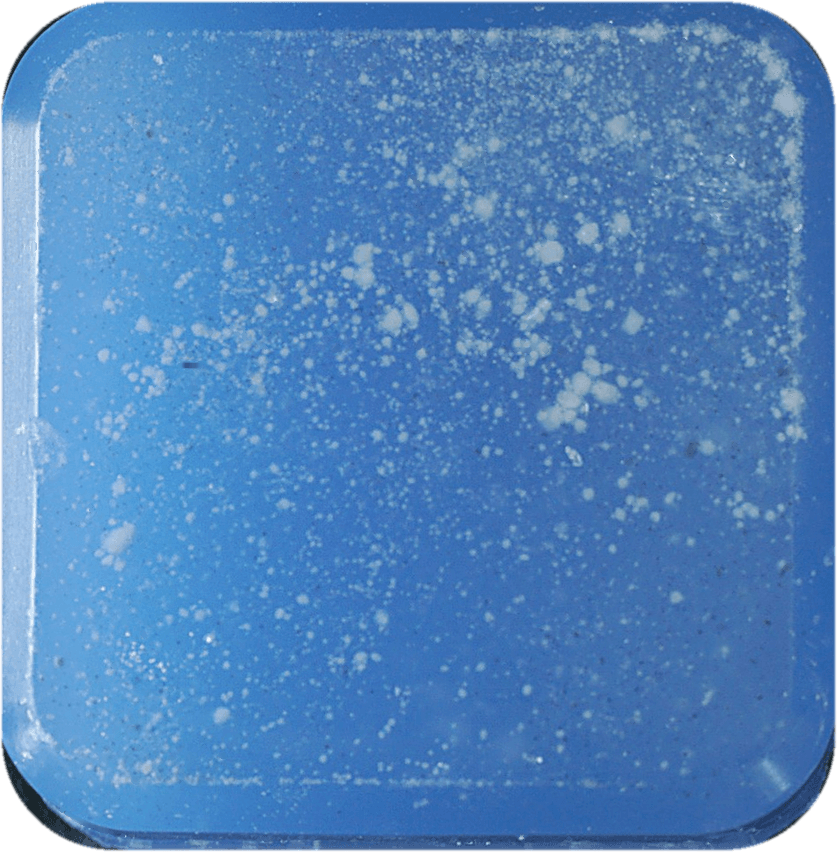
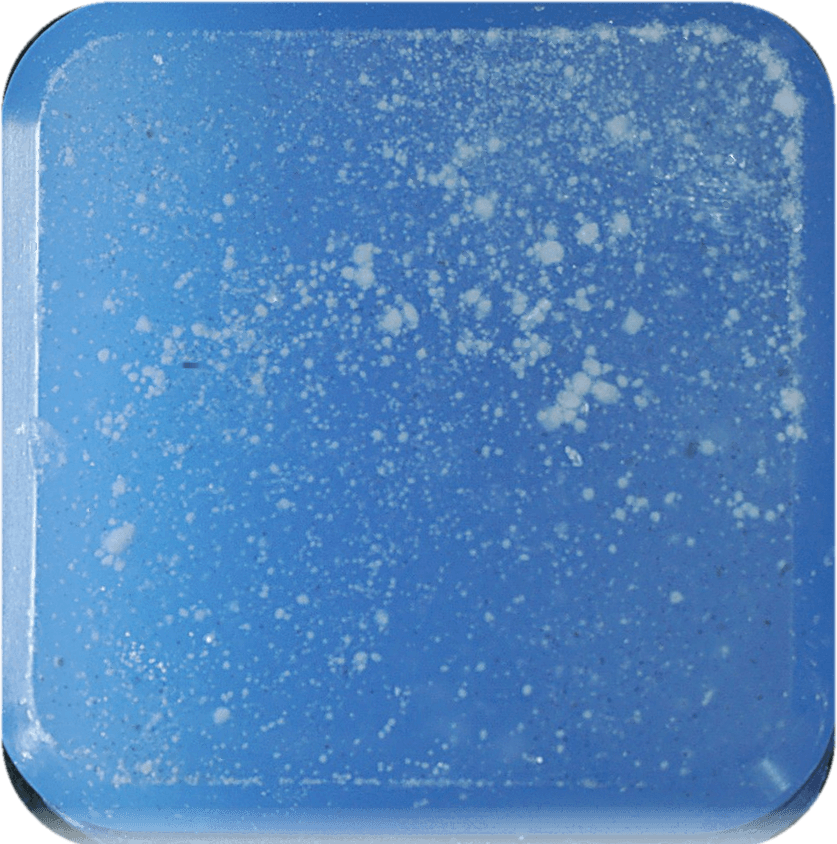
fix(mobile-hero): v4 — Komposition, Block, Diagonale, Typo geschärft
Zweite Politur-Runde nach Lucas Detailkritik.

- Wachsblock: deutlich weiter runter gezogen (~47 % Ueberstand statt ~24 %),
  groesser, satteres Blau (filter saturate/brightness/contrast), zweilagiger
  Kontaktschatten weiter nach unten versetzt -> schwebt klar davor, der
  Weissraum darunter ist seine Buehne statt totes Loch. Freisteller-Unterkante
  enger beschnitten + blau gehoben (wax-cutout-soft neu generiert).
- Kein toter Abstand mehr zwischen Block und Text: hero-content-m auf
  justify-start, padding-top = Blockueberstand + Puffer (svh-basiert).
- Diagonale: alle Panel-Ecken rund (rounded-[22px] statt rounded-t), Winkel
  deutlicher (rechts ~21 % hoch) und links/rechts vom Block sichtbar.
- Schriftzug "Waxcelerate": Libre Franklin 700 -> 800, letter-spacing -0.022em
  -> liest als Wortmarke, nicht als Wort. Kopf-Scrim staerker.
- Headline: line-height 1.0 -> 1.08 (Zeilen klebten), Groesse leicht hoch.
- Eyebrow: neuer i18n-Key hero.categoryLine ("Heisswachs fuer Fahrradketten")
  statt subtitle -> kein doppeltes "Waxcelerate" direkt unter dem Schriftzug.
- Value-Zeile: --txm -> --tx2 (dunkler/praesenter als die Eyebrow, sie traegt
  die Botschaft). Rhythmus: Eyebrow+Headline enger, Zaesur vor dem CTA.

Ein-Screen verifiziert 375x812 / 375x667; Noir (Diagonale nahtlos, Hierarchie
haelt); Desktop unveraendert; tsc + vite + Prerender gruen.

Bleibt Asset-limitiert: die fotografierte Blockunterkante ist dunkel, auf Weiss
[…]

diff --git a/src/sections/hero-light.tsx b/src/sections/hero-light.tsx
@@ -376,22 +376,26 @@ export function Hero() {
               oberen Ecken scharf). Untere Ecken der Bildflaeche selbst spitz —
               sie liegen unter dem Dreieck bzw. Block, also unsichtbar. */}
           <div className="hero-panel-m relative shrink-0">
-            <div className="absolute inset-0 rounded-t-[20px] overflow-hidden">
+            {/* Alle vier Ecken rund; die unteren liegen unter dem
+                Seitenfarben-Dreieck (.hero-panel-cut) und sind daher unsichtbar
+                — aber falls der Zuschnitt mal nicht pixelgenau deckt, gibt es
+                keine harte Ecke. */}
+            <div className="absolute inset-0 rounded-[22px] overflow-hidden">
               <picture>
                 <source srcSet={MOBILE_HERO_BG} type="image/webp" />
                 <img
                   src={MOBILE_HERO_BG_FALLBACK}
                   alt={de ? 'Fahrradketten auf Schiefer' : 'Bicycle chains on slate'}
                   className="absolute inset-0 w-full h-full object-cover"
-                  style={{ objectPosition: '48% 40%', filter: 'brightness(0.88) saturate(0.95)' }}
+                  style={{ objectPosition: '40% 58%', filter: 'brightness(0.86) saturate(0.92)' }}
                   fetchPriority="high"
                 />
               </picture>
               <div className="hero-grain absolute inset-0 pointer-events-none" />
               {/* Kopf-Scrim — Kontrast fuer den zentralen Schriftzug */}
               <div
-                className="absolute inset-x-0 top-0 h-1/2 pointer-events-none"
-                style={{ background: 'linear-gradient(to bottom, rgba(var(--scrim-rgb),0.42) 0%, rgba(var(--scrim-rgb),0.10) 55%, transparent 100%)' }}
+                className="absolute inset-x-0 top-0 h-[58%] pointer-events-none"
+                style={{ background: 'linear-gradient(to bottom, rgba(var(--scrim-rgb),0.52) 0%, rgba(var(--scrim-rgb),0.14) 55%, transparent 100%)' }}
               />
             </div>
             {/* Diagonale in Seitenfarbe — schneidet die Bildunterkante schraeg
@@ -403,13 +407,13 @@ export function Hero() {
 
             <span
               aria-hidden
-              className="hero-wordmark-m absolute left-1/2 -translate-x-1/2 top-[8%] z-[2] text-white text-center whitespace-nowrap"
+              className="hero-wordmark-m absolute left-1/2 -translate-x-1/2 top-[9%] z-[2] text-white text-center whitespace-nowrap"
               style={{
                 fontFamily: "'Libre Franklin', ui-sans-serif, system-ui, sans-serif",
-                fontWeight: 700,
-                letterSpacing: '-0.005em',
+                fontWeight: 800,
+                letterSpacing: '-0.022em',
                 lineHeight: 1,
-                textShadow: '0 2px 18px rgba(0,0,0,0.45)',
+                textShadow: '0 1px 2px rgba(0,0,0,0.35), 0 3px 22px rgba(0,0,0,0.45)',
               }}
             >
               Waxcelerate
@@ -434,27 +438,27 @@ export function Hero() {
                   className="absolute inset-[-24%] rounded-[40%] pointer-events-none block"
                   style={{ background: 'radial-gradient(closest-side, rgba(110,165,230,0.24), transparent 72%)', filter: 'blur(20px)', opacity: 0.8 }}
                 />
-                {/* Kontaktschatten auf der Seitenflaeche — weich, leicht nach
-                    unten versetzt, damit der Block "davor schwebt" statt zu
-                    kleben. Zwei Lagen: breit+diffus und schmal+dichter am Fuss. */}
+                {/* Kontaktschatten auf der Seitenflaeche — weich, nach unten
+                    versetzt, damit der Block "davor schwebt" statt zu kleben.
+                    Zwei Lagen: breit+diffus und schmal+dichter am Fuss. */}
                 <span
                   aria-hidden
-                  className="absolute left-1/2 -translate-x-1/2 bottom-[-6%] w-[112%] h-[24%] rounded-full pointer-events-none block"
-                  style={{ background: 'radial-gradient(ellipse, rgba(8,10,16,0.30), transparent 72%)', filter: 'blur(17px)' }}
+                  className="absolute left-1/2 -translate-x-1/2 bottom-[-10%] w-[122%] h-[30%] rounded-full pointer-events-none block"
+                  style={{ background: 'radial-gradient(ellipse, rgba(10,12,20,0.34), transparent 72%)', filter: 'blur(22px)' }}
                 />
                 <span
                   aria-hidden
-                  className="absolute left-1/2 -translate-x-1/2 bottom-[1%] w-[80%] h-[13%] rounded-full pointer-events-none block"
-                  style={{ background: 'radial-gradient(ellipse, rgba(8,10,16,0.34), transparent 70%)', filter: 'blur(9px)' }}
+                  className="absolute left-1/2 -translate-x-1/2 bottom-[-1%] w-[78%] h-[14%] rounded-full pointer-events-none block"
+                  style={{ background: 'radial-gradient(ellipse, rgba(10,12,20,0.40), transparent 68%)', filter: 'blur(10px)' }}
                 />
-                <span className="relative block" style={{ filter: 'drop-shadow(0 16px 24px rgba(6,8,12,0.30))' }}>
+                <span className="relative block" style={{ filter: 'drop-shadow(0 20px 30px rgba(6,8,12,0.30)) saturate(1.12) brightness(1.03) contrast(1.02)' }}>
                   <picture>
                     <source srcSet="/images/hero/wax-cutout-soft.webp" type="image/webp" />
                     <img
                       src="/images/hero/wax-cutout-soft.png"
                       alt={de ? 'Waxcelerate Kettenwachs-Block' : 'Waxcelerate chain wax block'}
                       className="block w-full h-auto"
-                      style={{ aspectRatio: '837 / 852' }}
+                      style={{ aspectRatio: '837 / 844' }}
                       fetchPriority="high"
                     />
                   </picture>
@@ -489,20 +493,22 @@ export function Hero() {
               zentriert im verbleibenden Raum, damit der Hero ohne feste Pixel
               in jede Geraetehoehe passt. */}
           <div className="hero-content-m flex-1 min-h-0 flex flex-col justify-center">
-            <div data-hero className="flex items-center gap-3">
-              <span style={{ width: '28px', height: '2px', background: 'var(--brand-blue)' }} />
+            {/* Eyebrow — sagt die Kategorie; NICHT nochmal "Waxcelerate"
+                (steht gross als Schriftzug direkt drueber). */}
+            <div data-hero className="hero-eyebrow-row flex items-center gap-3">
+              <span style={{ width: '26px', height: '2px', background: 'var(--brand-blue)' }} />
               <p
                 className="hero-eyebrow text-small uppercase font-semibold"
                 style={{ letterSpacing: '0.14em', color: 'var(--txm)' }}
               >
-                {t.hero.subtitle}
+                {t.hero.categoryLine}
               </p>
             </div>
 
             <h1
               className="hero-h1-m font-display"
               style={{
-                lineHeight: 1.0,
+                lineHeight: 1.08,
                 letterSpacing: '-0.025em',
                 fontWeight: 600,
                 fontVariationSettings: '"opsz" 144, "wght" 620, "SOFT" 0, "WONK" 0',
@@ -530,8 +536,9 @@ export function Hero() {
               </span>
             </h1>
 
-            {/* Eine knappe Value-Zeile (Outcome, kein Feature-Katalog). */}
-            <p data-hero className="hero-value-m" style={{ color: 'var(--txm)' }}>
+            {/* Eine knappe Value-Zeile (Outcome, kein Feature-Katalog).
+                Dunkler als die Eyebrow — sie traegt die eigentliche Botschaft. */}
+            <p data-hero className="hero-value-m" style={{ color: 'var(--tx2)' }}>
               {t.hero.valueLine}
             </p>
 

diff --git a/src/index.css b/src/index.css
@@ -781,48 +781,52 @@
    ueber die Kante, darunter knappe Textzone auf var(--pg). Alles in einer
    Bildschirmhoehe. Markup: .sm:hidden-Zweig in hero-light.tsx. */
 @media (max-width: 639px) {
-  /* Panel skaliert mit der Viewporthoehe (Ein-Screen). Der Block ragt darunter
-     heraus, deshalb darf das Panel selbst kompakter sein. */
+  /* Panel skaliert mit der Viewporthoehe (Ein-Screen). Der Block ragt weit
+     darunter heraus, deshalb ist das Panel selbst kompakt. */
   .hero-panel-m {
-    height: clamp(190px, 32svh, 288px);
+    height: clamp(178px, 30svh, 268px);
     overflow: visible;
   }
 
-  /* Diagonale in Seitenfarbe: fuellt das untere Dreieck des Panels, schneidet
-     die Bildunterkante deutlich schraeg an (rechts ~22 % hoch). Der clip-path
-     liegt NUR auf diesem Overlay; die Bildflaeche darunter hat spitze untere
-     Ecken (unsichtbar, weil vom Dreieck bzw. Block verdeckt). */
+  /* Diagonale in Seitenfarbe: schneidet die Bildunterkante deutlich schraeg an
+     (rechts ~26 % hoch), sodass links UND rechts vom Block ein spuerbares
+     Dreieck sichtbar bleibt. clip-path NUR auf diesem Overlay; die Bildflaeche
+     darunter hat alle Ecken rund. */
   .hero-panel-cut {
-    clip-path: polygon(-2% 101%, 101% 101%, 101% 78%, -2% 100%);
-    -webkit-clip-path: polygon(-2% 101%, 101% 101%, 101% 78%, -2% 100%);
+    clip-path: polygon(-2% 101%, 101% 101%, 101% 79%, -2% 100%);
+    -webkit-clip-path: polygon(-2% 101%, 101% 101%, 101% 79%, -2% 100%);
   }
 
-  /* Zentraler Schriftzug — Libre Franklin 700, fest. Groesse an der Referenz. */
-  .hero-wordmark-m { font-size: clamp(1.8rem, 8.2vw, 2.4rem); }
+  /* Zentraler Schriftzug — Libre Franklin 800, tight getrackt. Bewusst nicht
+     riesig: refined statt schreiend. */
+  .hero-wordmark-m { font-size: clamp(1.7rem, 7.6vw, 2.2rem); }
 
   /* Wachsblock: exakt horizontal zentriert (der <button> traegt selbst nur
      left:50% + -translate-x-1/2). Breite in svh -> skaliert mit der Panelhoehe.
-     top so, dass ~22 % der Blockhoehe frei ueber die Diagonale ragen — genug,
-     dass er klar "davor schwebt", ohne zu viel von der fotografierten dunklen
-     Blockunterkante auf die weisse Flaeche zu holen. */
-  .hero-block-m { width: clamp(138px, 24svh, 206px); top: 42%; }
+     top so, dass ~40 % der Blockhoehe frei unter der Diagonale schweben — der
+     Weissraum darunter ist die Buehne des Blocks, kein totes Loch. */
+  .hero-block-m { width: clamp(146px, 25svh, 216px); top: 52%; }
 
-  /* Headline auf eigener Buehne unter dem Panel — darf gross sein. */
-  .hero-h1-m { font-size: clamp(2.2rem, 10vw, 2.85rem); }
+  /* Headline — grosse Editorial-Buehne, luftige Zeilen (lh via Inline-Style). */
+  .hero-h1-m { font-size: clamp(2.35rem, 10.5vw, 3rem); }
 
-  /* Value-Zeile: ruhig, kein Feature-Katalog. */
-  .hero-value-m { font-size: clamp(0.82rem, 3.5vw, 0.95rem); line-height: 1.5; max-width: 30ch; }
+  /* Value-Zeile: ruhig, kein Feature-Katalog. Dunkler als Eyebrow (Inline). */
+  .hero-value-m { font-size: clamp(0.84rem, 3.6vw, 0.98rem); line-height: 1.5; max-width: 30ch; }
 
-  /* Textzone: gleichmaessiger vertikaler Rhythmus ueber row-gap; padding-top
-     haelt die vertikal zentrierten Inhalte frei vom Blockueberstand. */
+  /* Textzone: von oben (justify-start), damit der Abstand Block -> Eyebrow
+     exakt steuerbar ist. padding-top = Blockueberstand + kleiner Puffer, in svh
+     (skaliert mit der ebenfalls svh-basierten Blockgroesse). */
   .hero-content-m {
-    row-gap: 0.85rem;
-    padding-top: clamp(3rem, 8svh, 4.5rem);
+    justify-content: flex-start;
+    row-gap: 0.7rem;
+    padding-top: clamp(5rem, 14svh, 7.5rem);
   }
-  .hero-cta-m { margin-top: 0.4rem; }
+  /* Eyebrow und Headline gehoeren zusammen -> engerer Abstand als der Rest. */
+  .hero-eyebrow-row { margin-bottom: -0.15rem; }
+  /* Bewusste Zaesur vor dem CTA. */
+  .hero-cta-m { margin-top: 0.7rem; }
+  .hero-meta-m { margin-top: 0.2rem; }
 
-  /* "Waxcelerate · Kettenwachs · Stuttgart" bricht bei 13px/0.14em auf 390px
-     um. 11.5px bei 0.05em passen mit Reserve auch auf 360px. */
   .hero-eyebrow {
     font-size: clamp(10.5px, 2.95vw, 11.5px) !important;
     letter-spacing: 0.05em !important;
@@ -830,11 +834,11 @@
 }
 /* Kurze Geraete (< ~740px hoch): Panel, Block, Headline und Rhythmus stauchen. */
 @media (max-width: 639px) and (max-height: 740px) {
-  .hero-panel-m { height: clamp(166px, 28svh, 220px); }
-  .hero-block-m { width: clamp(124px, 21svh, 166px); top: 42%; }
-  .hero-h1-m { font-size: 1.85rem; }
+  .hero-panel-m { height: clamp(160px, 27svh, 216px); }
+  .hero-block-m { width: clamp(138px, 23svh, 188px); top: 52%; }
+  .hero-h1-m { font-size: 1.95rem; }
   .hero-value-m { font-size: 0.82rem; }
-  .hero-content-m { row-gap: 0.5rem; padding-top: clamp(2.25rem, 6svh, 3.25rem); }
+  .hero-content-m { row-gap: 0.5rem; padding-top: clamp(4.75rem, 14.5svh, 6.25rem); }
   .hero-cta-m { margin-top: 0.15rem; padding-top: 12px; padding-bottom: 12px; }
 }
 

diff --git a/src/lib/i18n.ts b/src/lib/i18n.ts
@@ -47,6 +47,9 @@ export const translations = {
       subtitle: 'Waxcelerate · Kettenwachs · Stuttgart',
       headline: 'Am Ende der',
       headlineSub: 'Recherche.',
+      // Eyebrow im Mobile-Hero (unter dem grossen "Waxcelerate"-Schriftzug,
+      // deshalb ohne den Markennamen). subtitle bleibt fuer Desktop.
+      categoryLine: 'Heißwachs für Fahrradketten',
       // Eine knappe Outcome-Zeile im Mobile-Hero unter der Headline.
       valueLine: 'Dreimal längere Kettenlaufzeit — ohne Nachschmieren.',
       tagline: 'Heißwachs statt Kettenöl. Sauberer, länger, günstiger, ohne Kompromiss.',
@@ -572,6 +575,7 @@ export const translations = {
       subtitle: 'Waxcelerate · Chain Wax · Stuttgart',
       headline: 'At the end of',
       headlineSub: 'the research.',
+      categoryLine: 'Hot wax for bicycle chains',
       valueLine: 'Three times the chain life — with no re-lubing.',
       tagline: 'Hot wax over chain oil. Cleaner, longer-lasting, more affordable, with no compromise.',
       priceAnchor: 'From €22.95 · ~€70 saved over 12,000 km',
